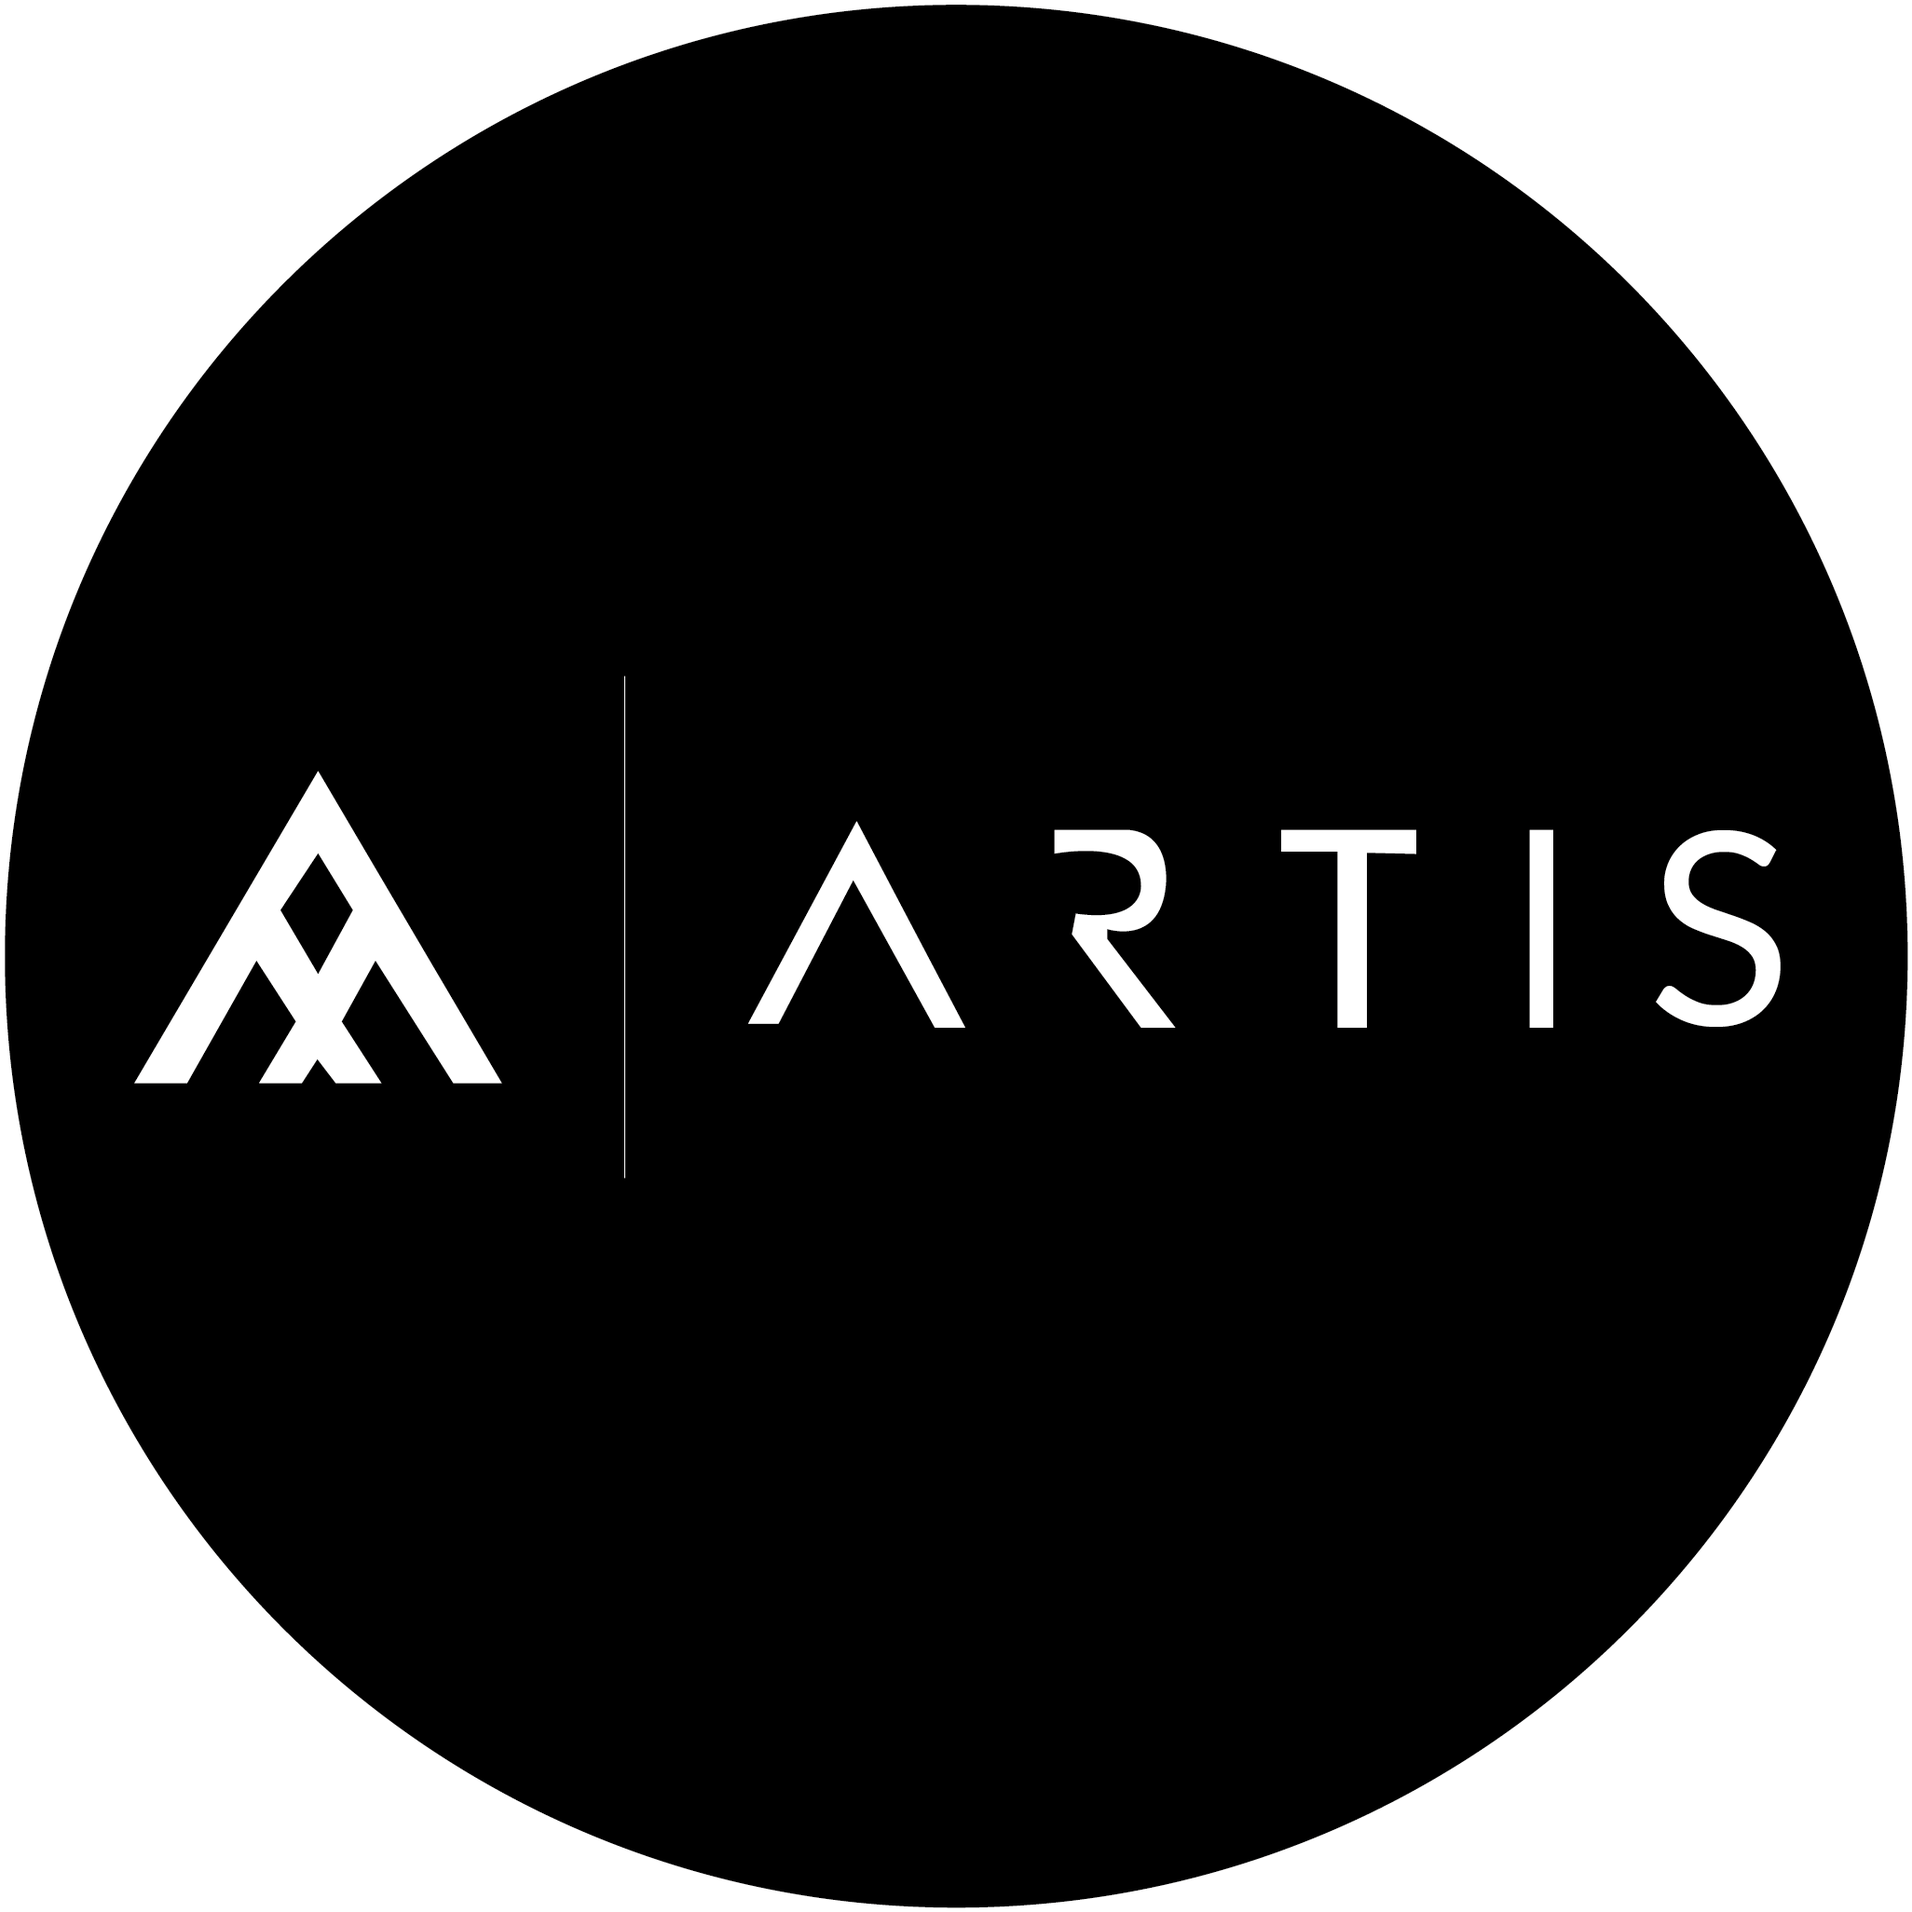
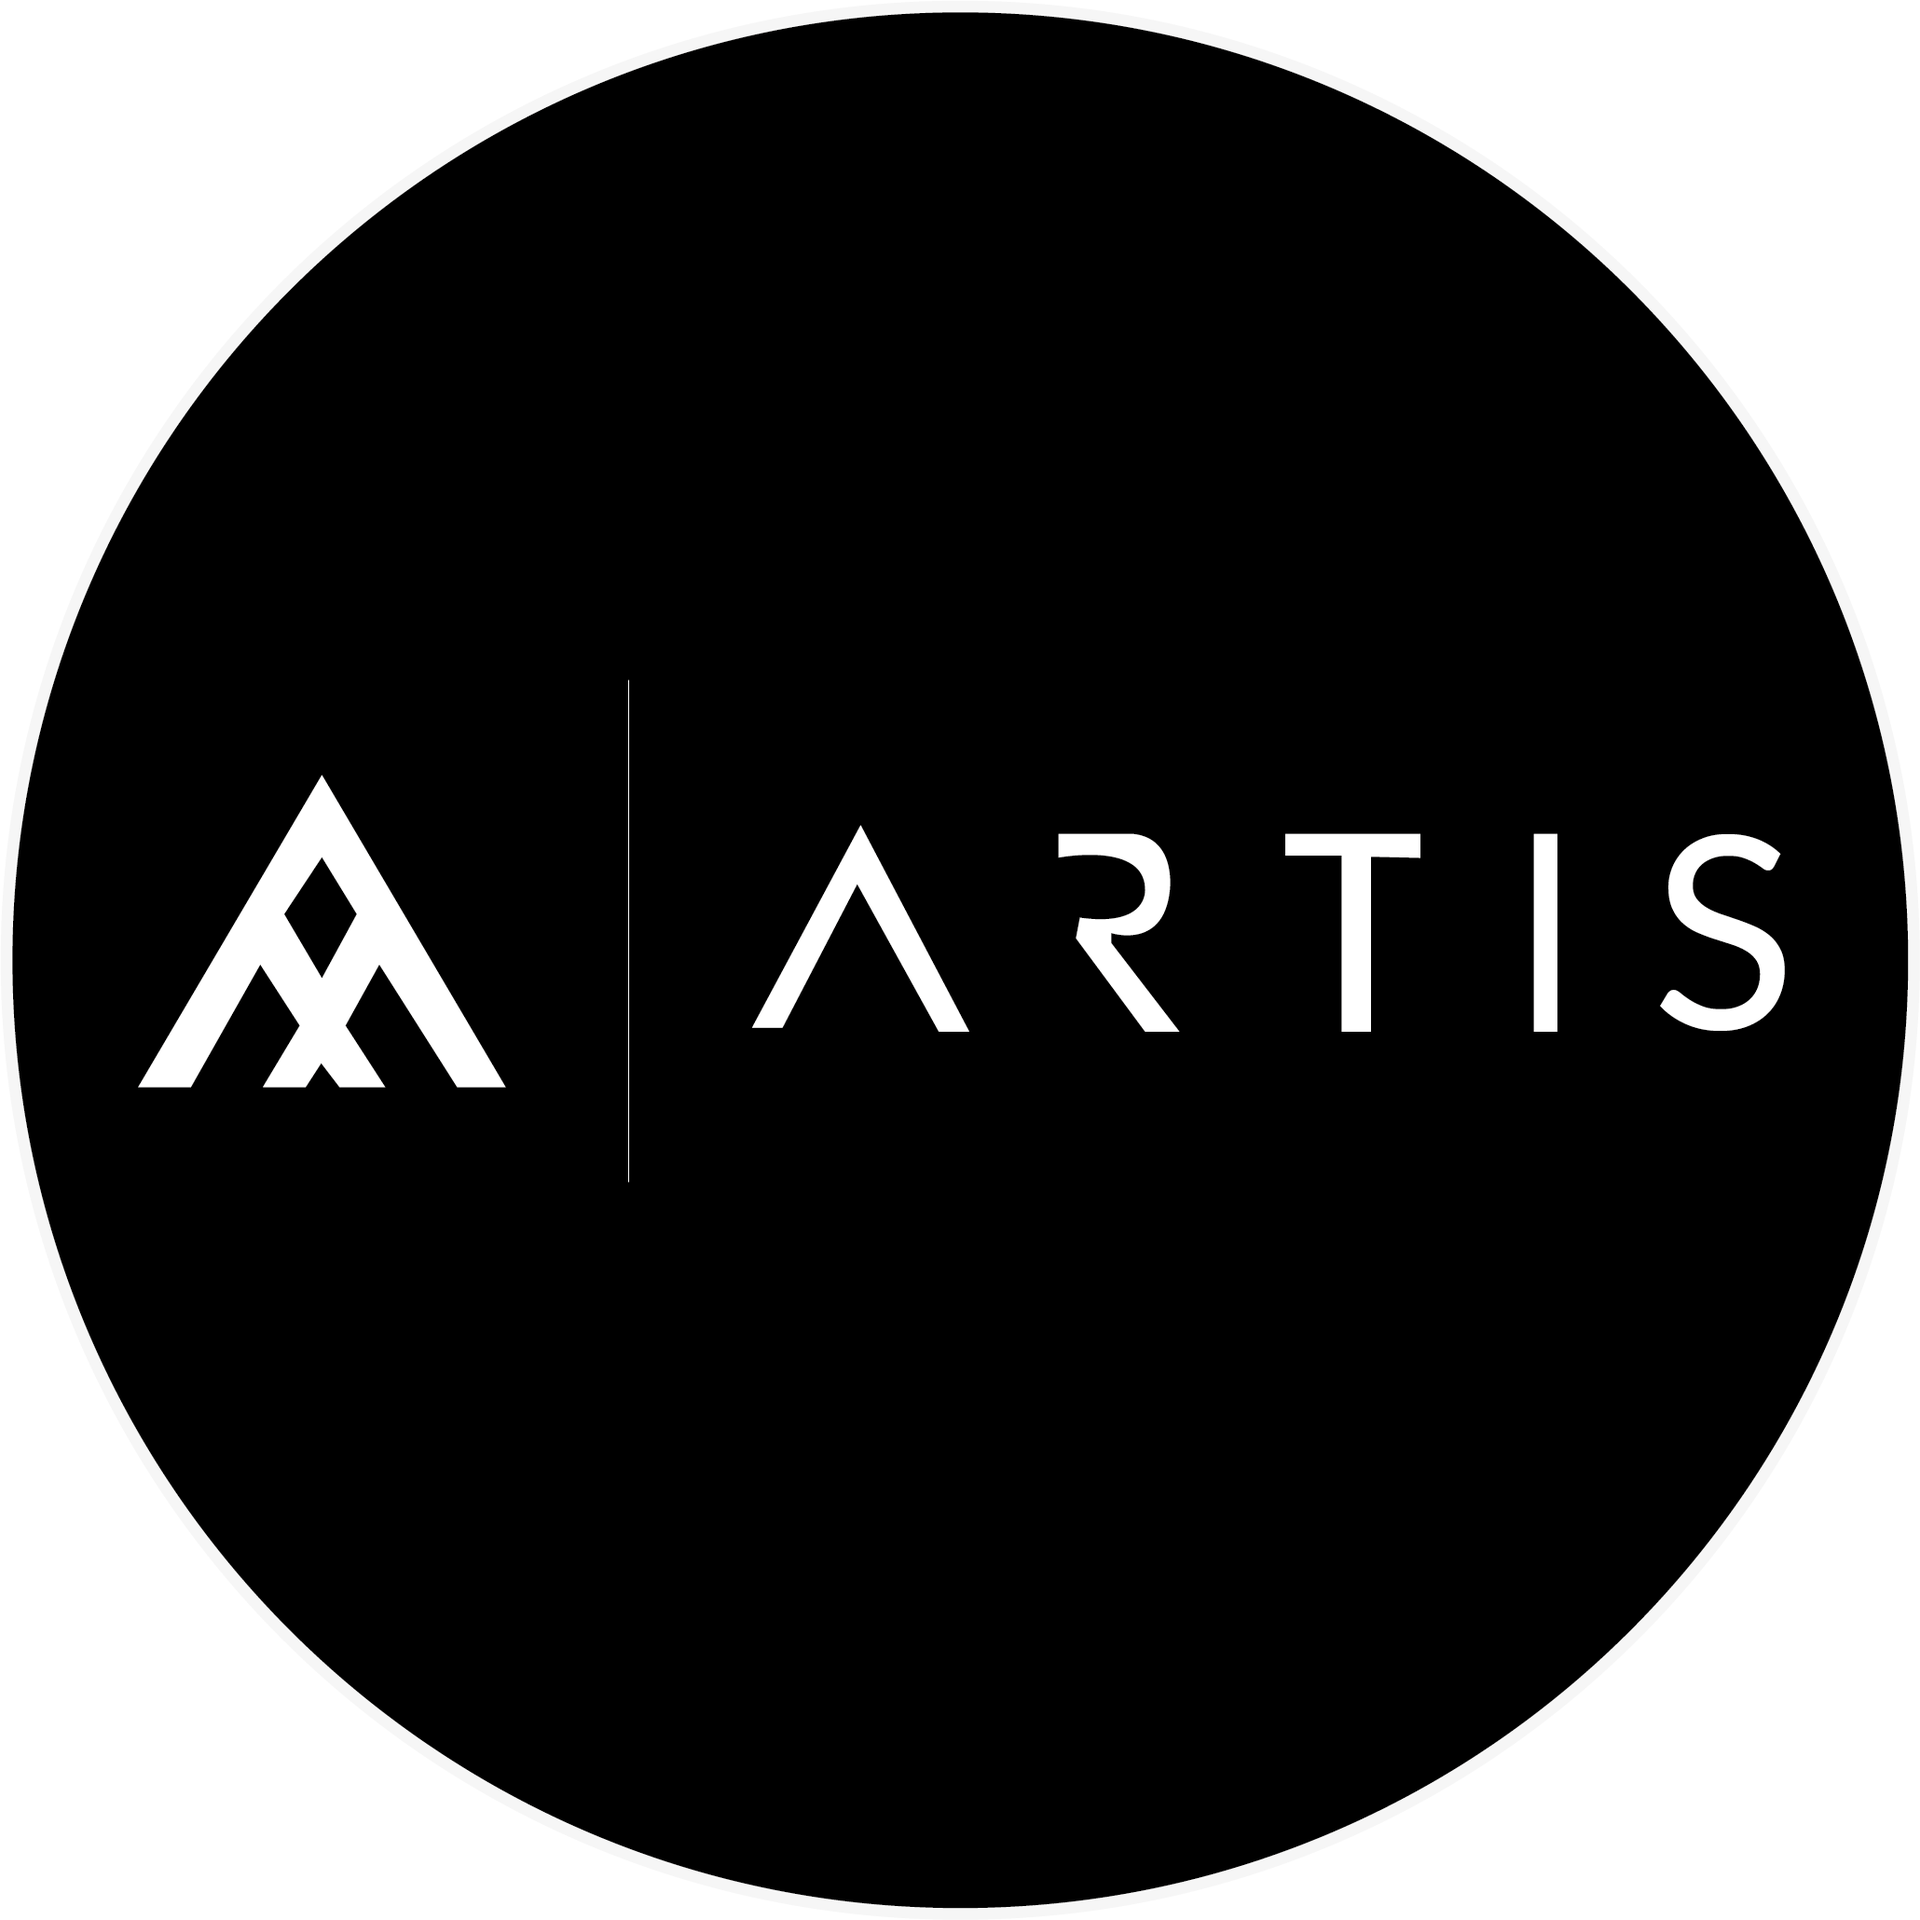
aanpassingen foto's

diff --git a/pages/css/pages.css b/pages/css/pages.css
@@ -38,10 +38,10 @@ img {
     padding: 0;
     margin: 0;
     color: white;
-	position: center;
+	  position: center;
     background-repeat: no-repeat;
     background-size: cover;
-	height: 100%;
+	  height: 100%;
 	
     
     
@@ -204,6 +204,7 @@ a {
   font-size: 1.8em;
   padding-top: 250px;
   text-align: center;
+  
 }
 
 
@@ -220,6 +221,7 @@ p.logotext {
   width: 200px;
   height: 200px;
   margin-top: 60px;
+
   
 }
 

diff --git a/pages/intro.html b/pages/intro.html
@@ -37,7 +37,7 @@
 
     <div id="header" class="container">
       <div id="welcome">
-          <img src="images/band1.jpg" class="img-round"></img>
+          <img src="images/transpar.png" class="img-round"></img>
           <h2>WELCOME</h2>
          
       
